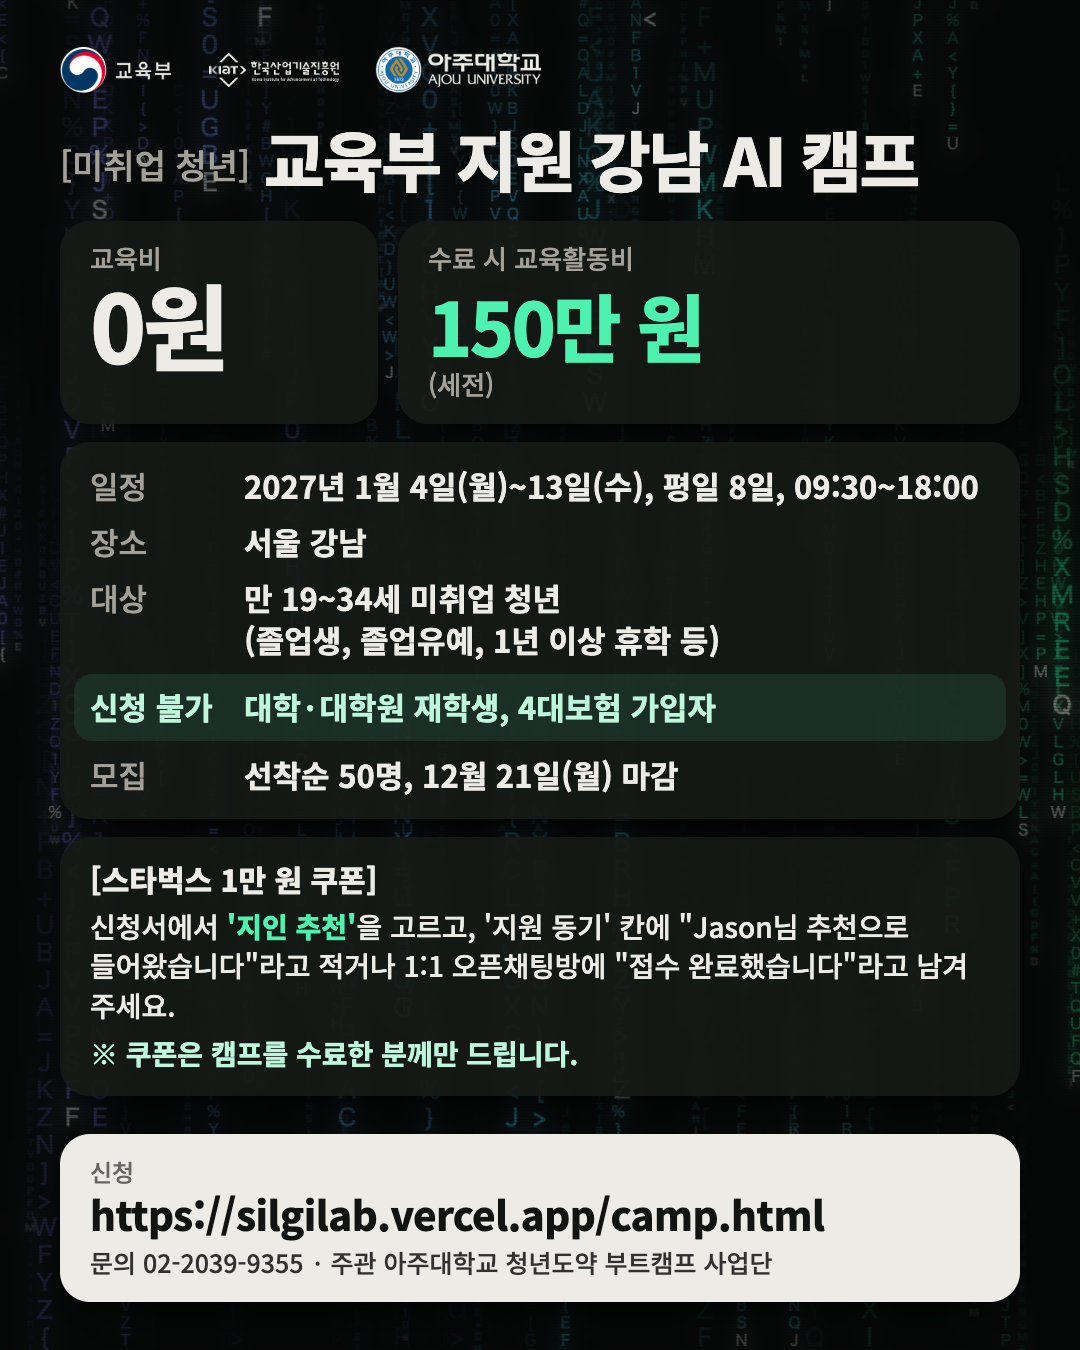
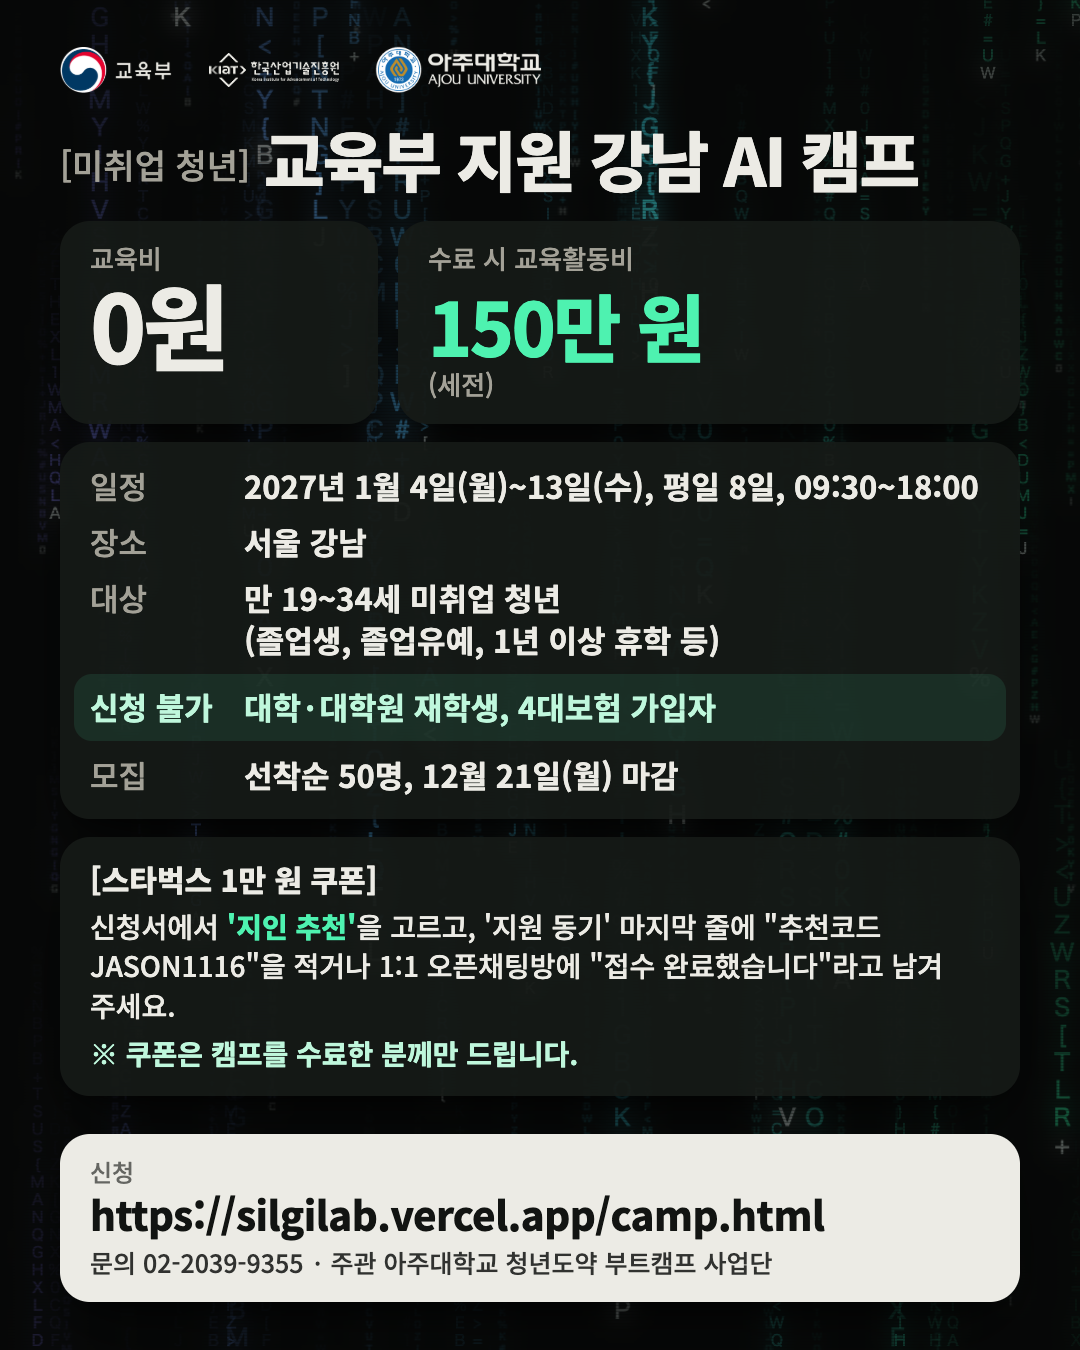
Referral code instead of the referral sentence
Applicants write "추천코드 JASON1116" on the last line of 지원 동기 (the form has no referrer field yet); copy button now copies the code. Pages, camp.txt and the share cards updated.

diff --git a/camp-scroll.html b/camp-scroll.html
@@ -236,8 +236,8 @@ a:focus-visible,button:focus-visible{outline:3px solid var(--accent);outline-off
   <p class="step"><i>1</i><span>신청서의 '캠프를 어떻게 알게 되었나요?'에서 '지인 추천'을 골라 주세요.</span></p>
   <p class="step"><i>2</i><span>아래 중 편한 방법 하나로 알려 주세요.</span></p>
   <div class="opt">
-    <p>신청서 '지원 동기' 칸 마지막에 아래 문구 적기</p>
-    <div class="copy"><code id="phrase">Jason님 추천으로 들어왔습니다</code><button type="button" id="copyBtn" data-goatcounter-click="click-copy-phrase" data-goatcounter-title="추천 문구 복사">문구 복사</button></div>
+    <p>신청서 '지원 동기' 칸 마지막 줄에 추천코드 적기</p>
+    <div class="copy"><code id="phrase">추천코드 JASON1116</code><button type="button" id="copyBtn" data-goatcounter-click="click-copy-code" data-goatcounter-title="추천코드 복사">코드 복사</button></div>
   </div>
   <div class="opt">
     <p>신청을 마친 뒤 1:1 오픈채팅방에 "접수 완료했습니다"라고 남기기</p>
@@ -260,7 +260,7 @@ a:focus-visible,button:focus-visible{outline:3px solid var(--accent);outline-off
 <script>
 (function(){
   var btn=document.getElementById("copyBtn"),text=document.getElementById("phrase").textContent;
-  function done(ok){btn.textContent=ok?"복사됨":"길게 눌러 복사";setTimeout(function(){btn.textContent="문구 복사"},2000)}
+  function done(ok){btn.textContent=ok?"복사됨":"길게 눌러 복사";setTimeout(function(){btn.textContent="코드 복사"},2000)}
   btn.addEventListener("click",function(){
     try{
       if(navigator.clipboard&&window.isSecureContext){navigator.clipboard.writeText(text).then(function(){done(true)},function(){done(false)});return}

diff --git a/camp.html b/camp.html
@@ -175,8 +175,8 @@ footer p{margin:0 0 4px}
   <p class="step"><i>1</i><span>신청서의 '캠프를 어떻게 알게 되었나요?'에서 '지인 추천'을 골라 주세요.</span></p>
   <p class="step"><i>2</i><span>아래 중 편한 방법 하나로 알려 주세요.</span></p>
   <div class="opt">
-    <p>신청서 '지원 동기' 칸 마지막에 아래 문구 적기</p>
-    <div class="copy"><code id="phrase">Jason님 추천으로 들어왔습니다</code><button type="button" id="copyBtn" data-goatcounter-click="click-copy-phrase" data-goatcounter-title="추천 문구 복사">문구 복사</button></div>
+    <p>신청서 '지원 동기' 칸 마지막 줄에 추천코드 적기</p>
+    <div class="copy"><code id="phrase">추천코드 JASON1116</code><button type="button" id="copyBtn" data-goatcounter-click="click-copy-code" data-goatcounter-title="추천코드 복사">코드 복사</button></div>
   </div>
   <div class="opt">
     <p>신청을 마친 뒤 1:1 오픈채팅방에 "접수 완료했습니다"라고 남기기</p>
@@ -197,7 +197,7 @@ footer p{margin:0 0 4px}
 <script>
 (function(){
   var btn=document.getElementById("copyBtn"),text=document.getElementById("phrase").textContent;
-  function done(ok){btn.textContent=ok?"복사됨":"길게 눌러 복사";setTimeout(function(){btn.textContent="문구 복사"},2000)}
+  function done(ok){btn.textContent=ok?"복사됨":"길게 눌러 복사";setTimeout(function(){btn.textContent="코드 복사"},2000)}
   btn.addEventListener("click",function(){
     try{
       if(navigator.clipboard&&window.isSecureContext){navigator.clipboard.writeText(text).then(function(){done(true)},function(){done(false)});return}

diff --git a/source/cards.html b/source/cards.html
@@ -154,7 +154,7 @@ h1 .tag{font-size:34px;font-weight:500;color:var(--mute);letter-spacing:0;margin
   </dl>
   <div class="coupon glass">
     <h2>[스타벅스 1만 원 쿠폰]</h2>
-    <p>신청서에서 <b>'지인 추천'</b>을 고르고, '지원 동기' 칸에 "Jason님 추천으로 들어왔습니다"라고 적거나 1:1 오픈채팅방에 "접수 완료했습니다"라고 남겨 주세요.</p>
+    <p>신청서에서 <b>'지인 추천'</b>을 고르고, '지원 동기' 마지막 줄에 "추천코드 JASON1116"을 적거나 1:1 오픈채팅방에 "접수 완료했습니다"라고 남겨 주세요.</p>
     <p class="cond">※ 쿠폰은 캠프를 수료한 분께만 드립니다.</p>
   </div>
   <div class="cta">
@@ -196,7 +196,7 @@ h1 .tag{font-size:34px;font-weight:500;color:var(--mute);letter-spacing:0;margin
     <div class="step"><i>1</i><div>신청서의 '캠프를 어떻게 알게 되었나요?'에서 '지인 추천'을 골라 주세요.</div></div>
     <div class="step"><i>2</i><div>아래 중 편한 방법 하나로 알려 주세요.</div></div>
     <div class="opts">
-      <div class="opt"><p>'지원 동기' 칸 마지막에 적기</p><div class="phrase">Jason님 추천으로<br>들어왔습니다</div></div>
+      <div class="opt"><p>'지원 동기' 칸 마지막 줄에<br>추천코드 적기</p><div class="phrase">추천코드 JASON1116</div></div>
       <div class="opt"><p>신청 후 1:1 오픈채팅방에<br>"접수 완료했습니다" 남기기</p><div class="chat">open.kakao.com/o/sTVTZiXi</div></div>
     </div>
   </div>
